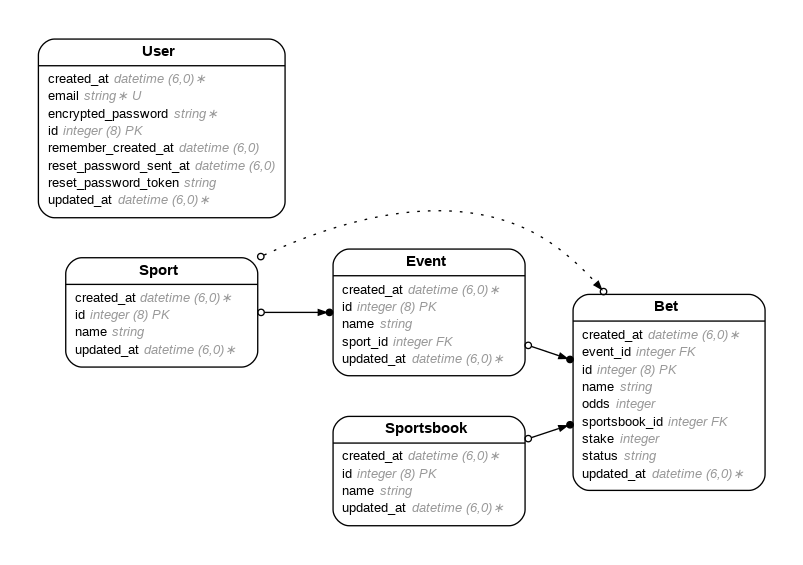
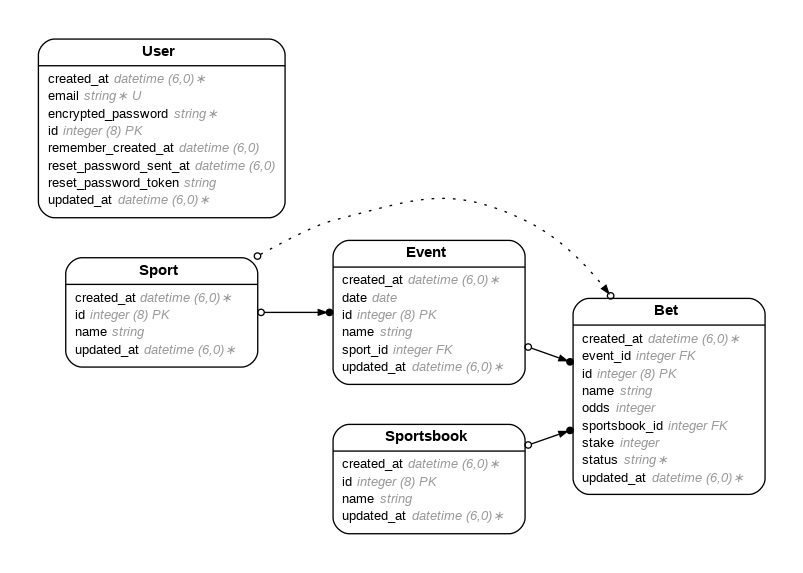
styling and events

diff --git a/app/assets/stylesheets/styles.css b/app/assets/stylesheets/styles.css
@@ -1,0 +1,77 @@
+/* General Styles */
+body {
+    font-family: 'Arial', sans-serif;
+    line-height: 1.6;
+    margin: 0;
+    padding: 0;
+    background-color: #f4f4f4;
+    color: #333;
+    padding: 0 1rem; /* Add padding to the body for spacing */
+}
+
+/* Container for Content */
+.container {
+    max-width: 1200px;
+    margin: 0 auto; /* Center the content */
+    padding: 1rem;
+}
+
+/* Header */
+header {
+    background-color: #004d00;
+    color: #fff;
+    padding: 1rem;
+    text-align: center;
+    margin-bottom: 1rem;
+}
+
+header h1 {
+    margin: 0;
+    font-size: 2rem;
+}
+
+/* Navigation Bar */
+nav {
+    display: flex;
+    justify-content: center;
+    background-color: #006600;
+    padding: 0.5rem;
+    margin-bottom: 1rem;
+}
+
+nav a {
+    color: white;
+    text-decoration: none;
+    margin: 0 1rem;
+    font-weight: bold;
+}
+
+nav a:hover {
+    text-decoration: underline;
+}
+
+/* Table Styles */
+table {
+    width: 100%;
+    border-collapse: collapse;
+    box-shadow: 0 0 10px rgba(0, 0, 0, 0.1);
+}
+
+table thead {
+    background-color: #004d00;
+    color: white;
+}
+
+table th, table td {
+    padding: 0.8rem;
+    text-align: left;
+    border: 1px solid #ddd;
+}
+
+table tr:nth-child(even) {
+    background-color: #f9f9f9;
+}
+
+table tr:hover {
+    background-color: #d4edda;
+}

diff --git a/app/controllers/events_controller.rb b/app/controllers/events_controller.rb
@@ -21,6 +21,7 @@ class EventsController < ApplicationController
     the_event = Event.new
     the_event.name = params.fetch("query_name")
     the_event.sport_id = params.fetch("query_sport_id")
+    the_event.date = params.fetch("query_date")
 
     if the_event.valid?
       the_event.save
@@ -33,8 +34,9 @@ class EventsController < ApplicationController
   def update
     the_id = params.fetch("path_id")
     the_event = Event.where({ :id => the_id }).at(0)
-
+        
     the_event.name = params.fetch("query_name")
+    the_event.date = params.fetch("query_date")
 
     if the_event.valid?
       the_event.save

diff --git a/db/schema.rb b/db/schema.rb
@@ -10,7 +10,7 @@
 #
 # It's strongly recommended that you check this file into your version control system.
 
-ActiveRecord::Schema[7.1].define(version: 2024_12_11_081909) do
+ActiveRecord::Schema[7.1].define(version: 2024_12_14_170906) do
   # These are extensions that must be enabled in order to support this database
   enable_extension "plpgsql"
 
@@ -30,6 +30,7 @@ ActiveRecord::Schema[7.1].define(version: 2024_12_11_081909) do
     t.datetime "created_at", null: false
     t.datetime "updated_at", null: false
     t.integer "sport_id"
+    t.date "date"
   end
 
   create_table "sports", force: :cascade do |t|

diff --git a/app/models/event.rb b/app/models/event.rb
@@ -3,6 +3,7 @@
 # Table name: events
 #
 #  id         :bigint           not null, primary key
+#  date       :date
 #  name       :string
 #  created_at :datetime         not null
 #  updated_at :datetime         not null

diff --git a/db/migrate/20241214170906_add_date_to_events.rb b/db/migrate/20241214170906_add_date_to_events.rb
@@ -1,0 +1,5 @@
+class AddDateToEvents < ActiveRecord::Migration[7.1]
+  def change
+    add_column :events, :date, :date
+  end
+end
